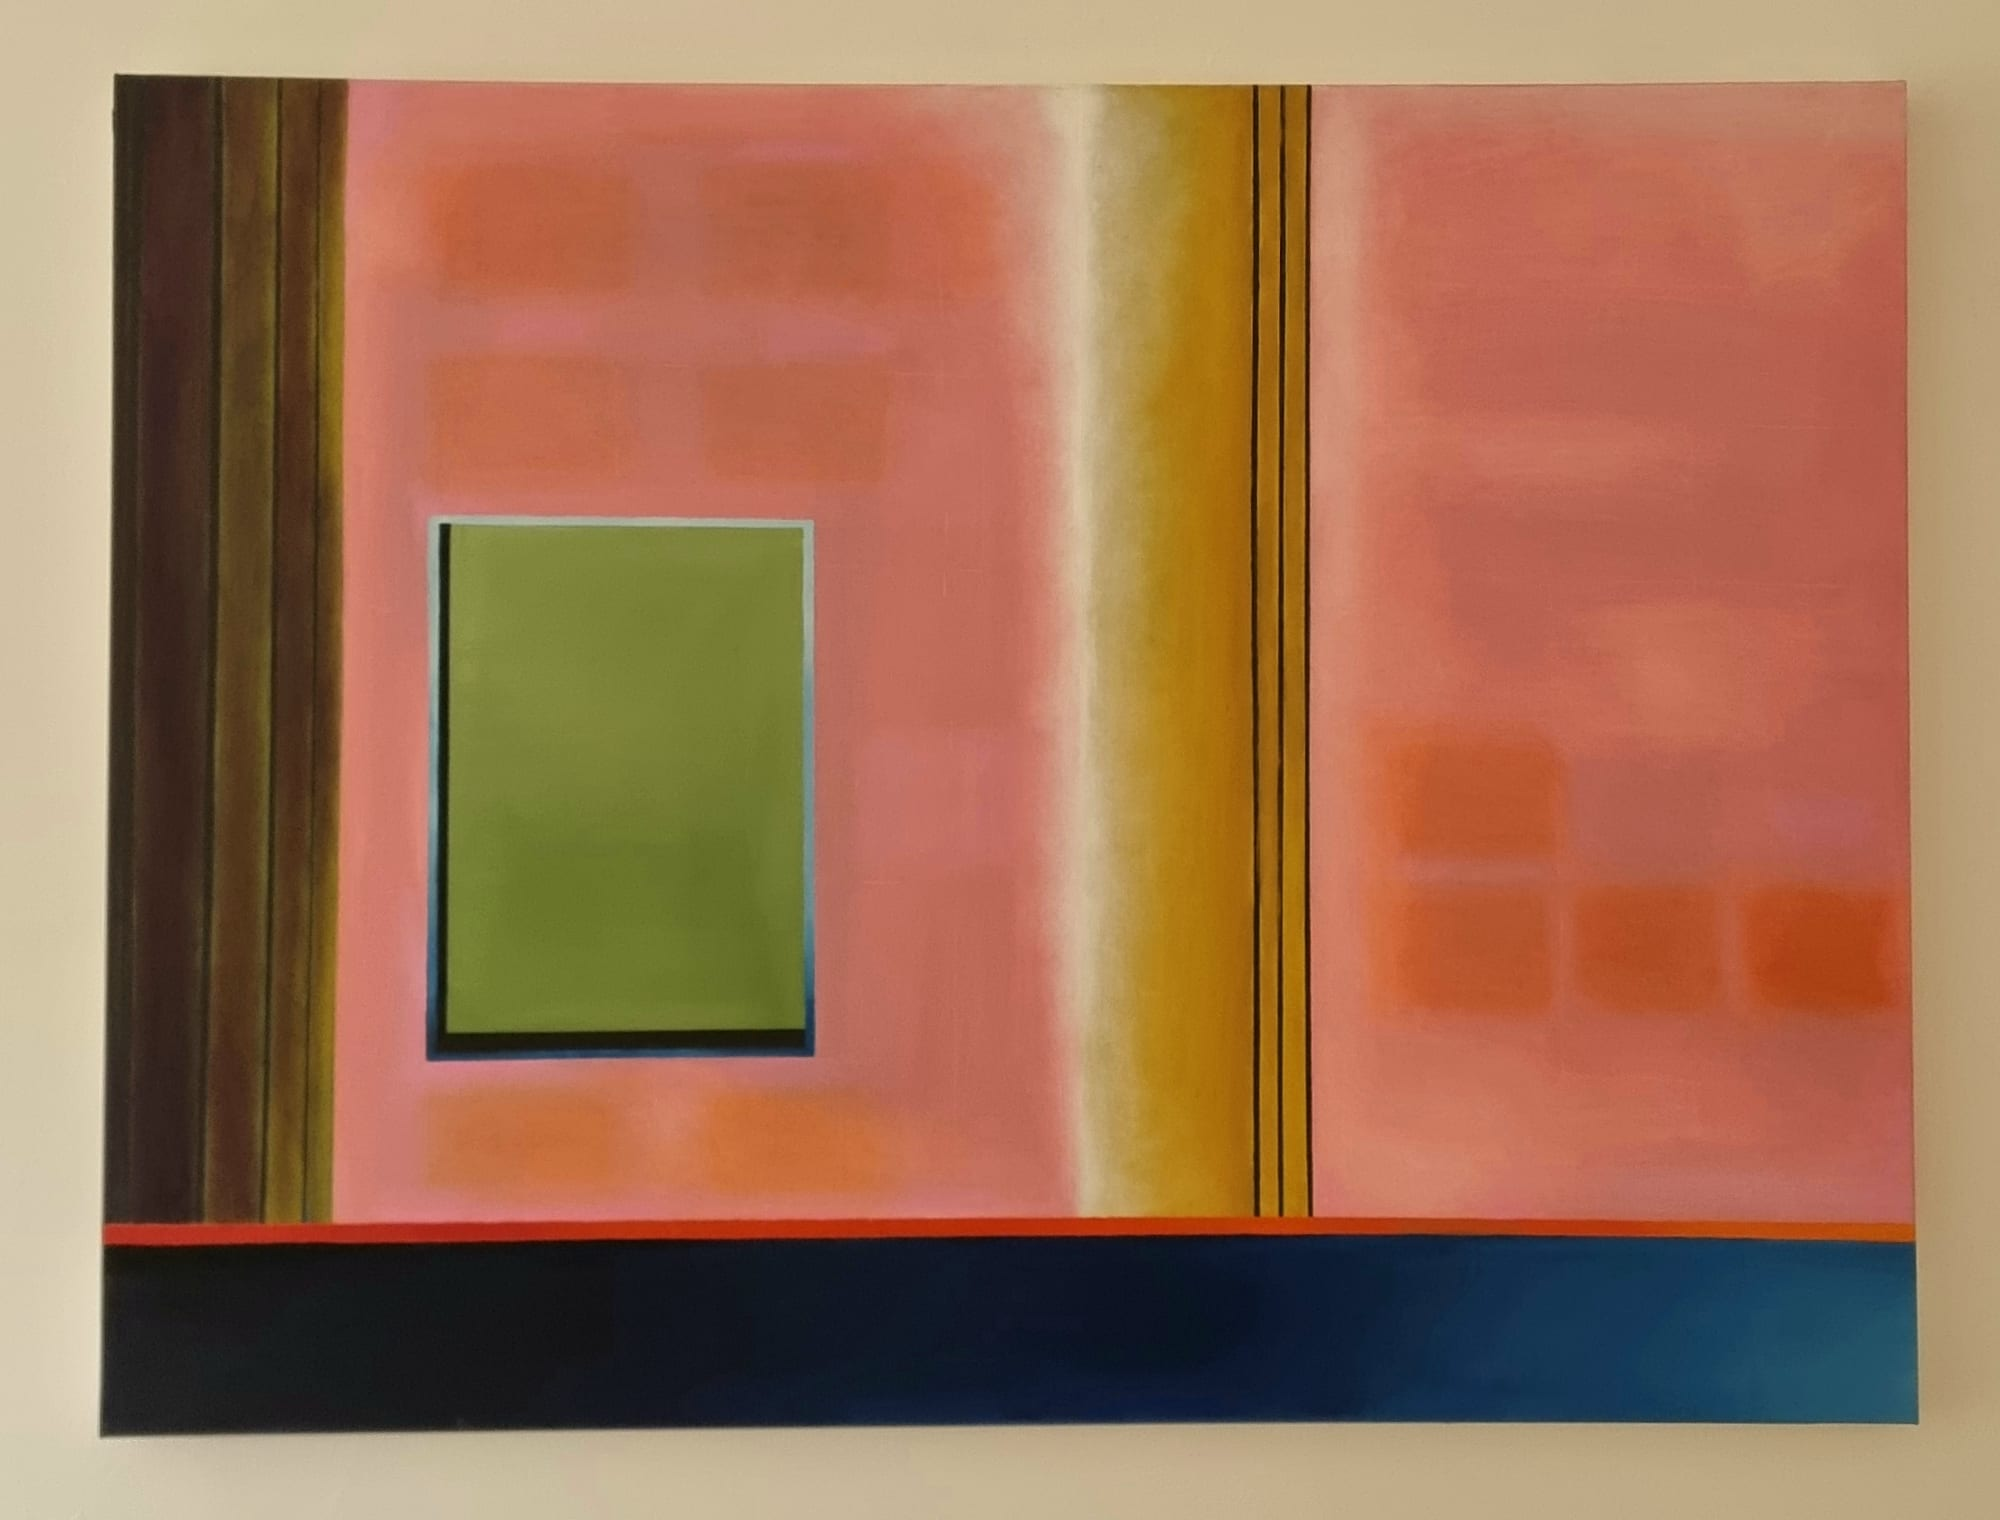
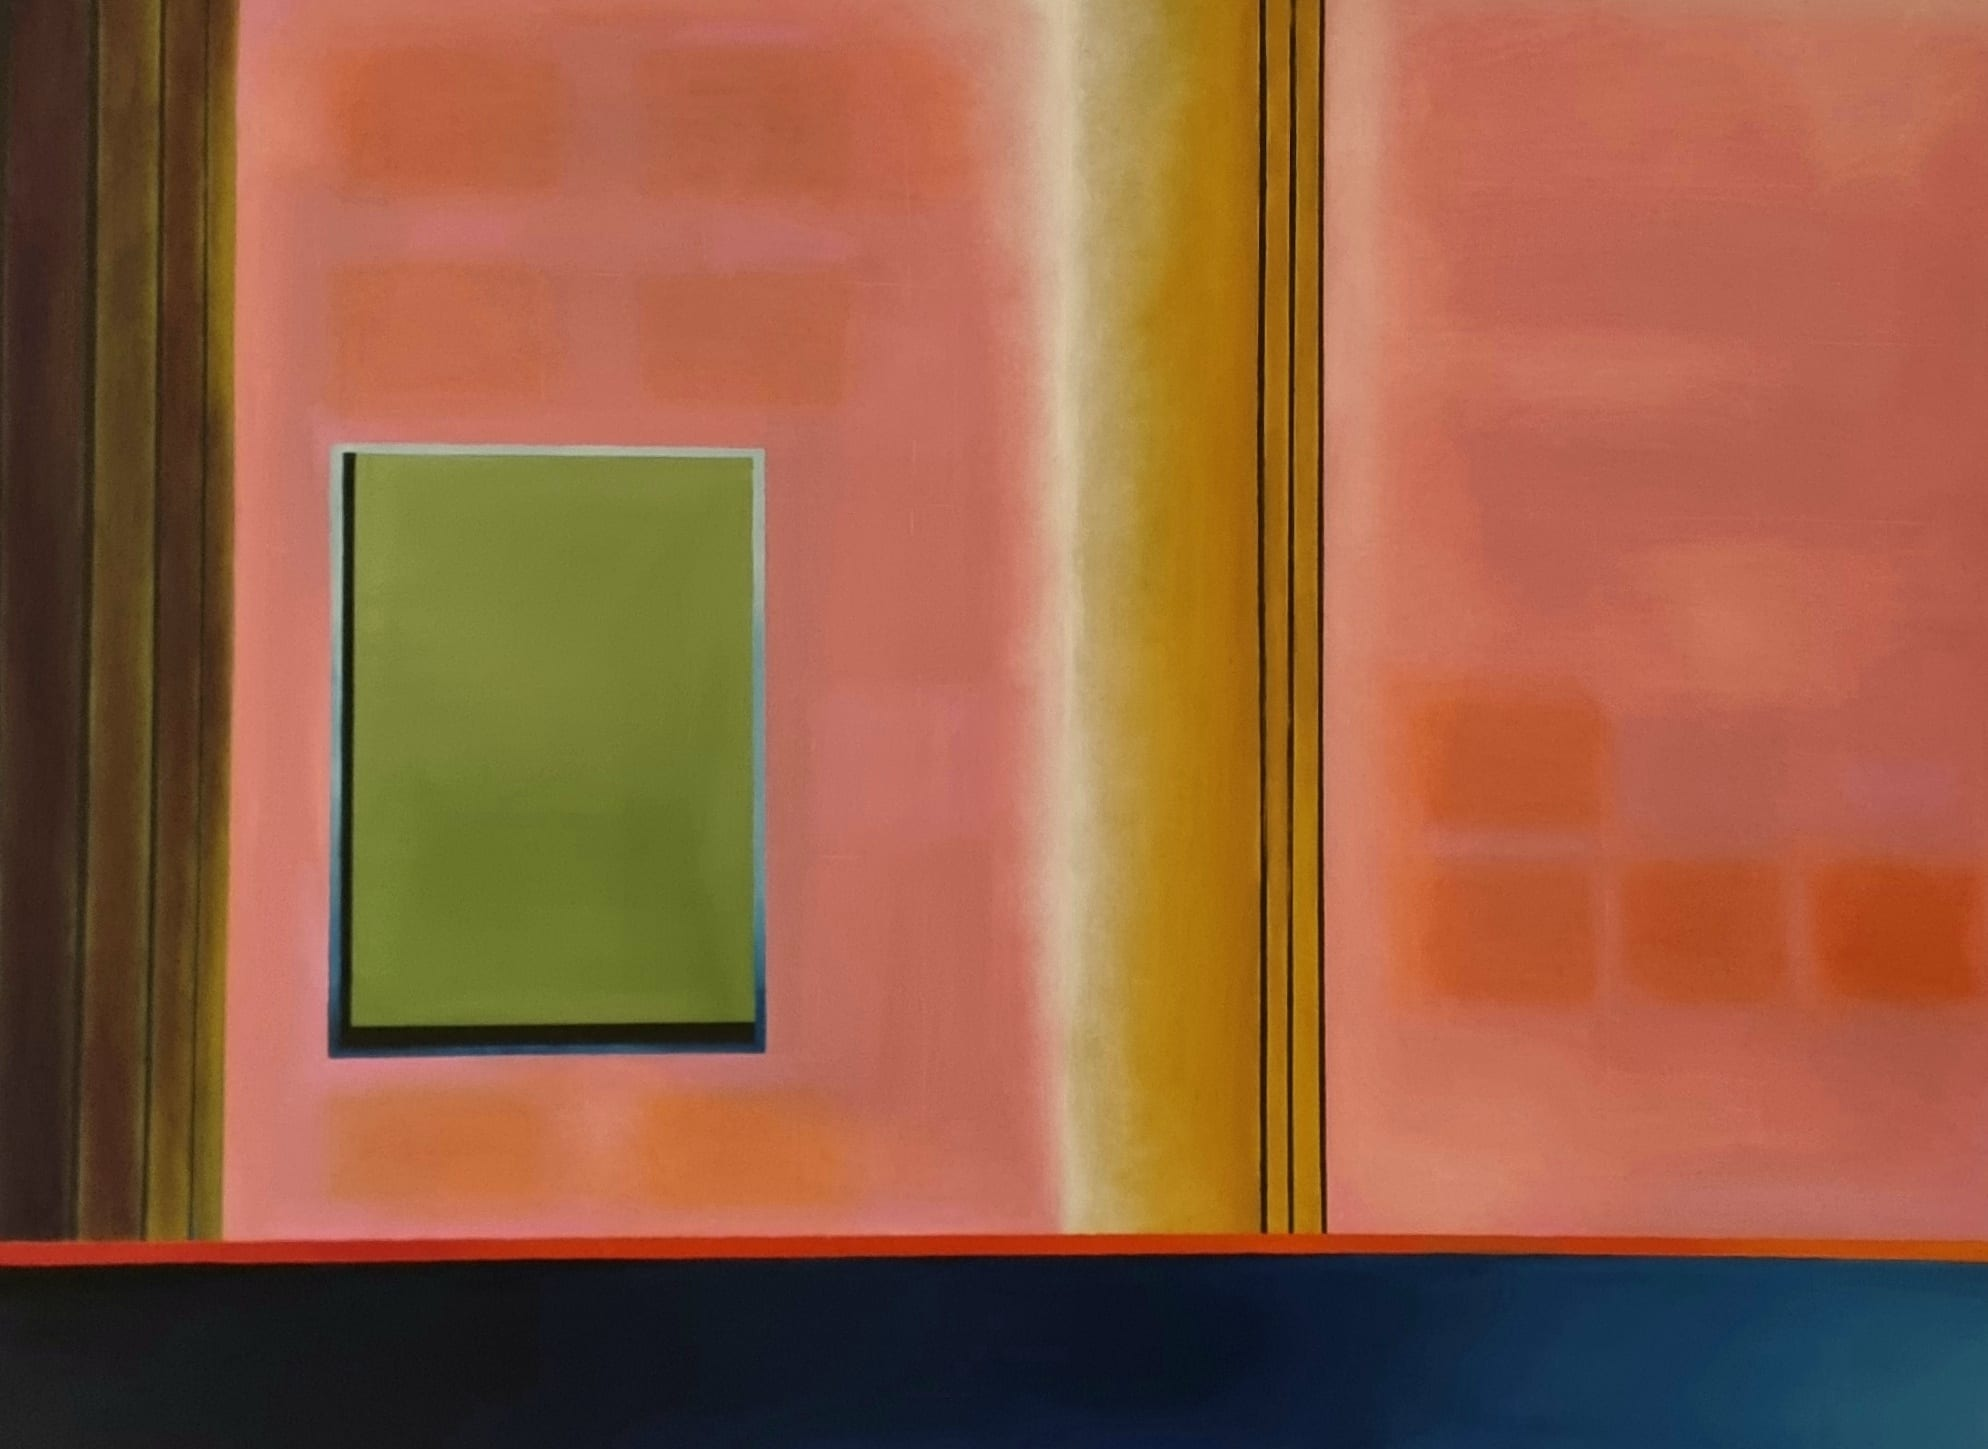
Crop wall border off playground-abstract; simplify Fashion subtitle
- playground-abstract.jpg was photographed on the wall with a cream border on
  all sides; crop the source to the canvas and regenerate derivatives (git keeps
  the original). Scanned all 18 paintings — this was the only genuine mis-crop.
- Fashion page subtitle -> "Selection of mens and womans fashion"

diff --git a/paintings.html b/paintings.html
@@ -108,10 +108,10 @@
       </picture>
       <span class="cap">Orange</span>
     </a>
-    <a class="tile" href="public/images/paintings/playground-abstract.jpg" data-pswp-width="2000" data-pswp-height="1520" data-title="Playground Abstract">
+    <a class="tile" href="public/images/paintings/playground-abstract.jpg" data-pswp-width="1988" data-pswp-height="1449" data-title="Playground Abstract">
       <picture>
         <source srcset="public/images/paintings/playground-abstract-thumb.webp" type="image/webp">
-        <img src="public/images/paintings/playground-abstract-thumb.jpg" alt="Playground Abstract, painting by Henri Davies" loading="lazy" width="800" height="608">
+        <img src="public/images/paintings/playground-abstract-thumb.jpg" alt="Playground Abstract, painting by Henri Davies" loading="lazy" width="800" height="583">
       </picture>
       <span class="cap">Playground Abstract</span>
     </a>

diff --git a/fashion.html b/fashion.html
@@ -36,7 +36,7 @@
       <div>
         <p class="eyebrow">Feature</p>
         <h1>Fashion</h1>
-        <p class="sub">A fashion and styling archive, led by the original press feature.</p>
+        <p class="sub">Selection of mens and womans fashion.</p>
       </div>
       <span class="count">51 images</span>
     </div>
